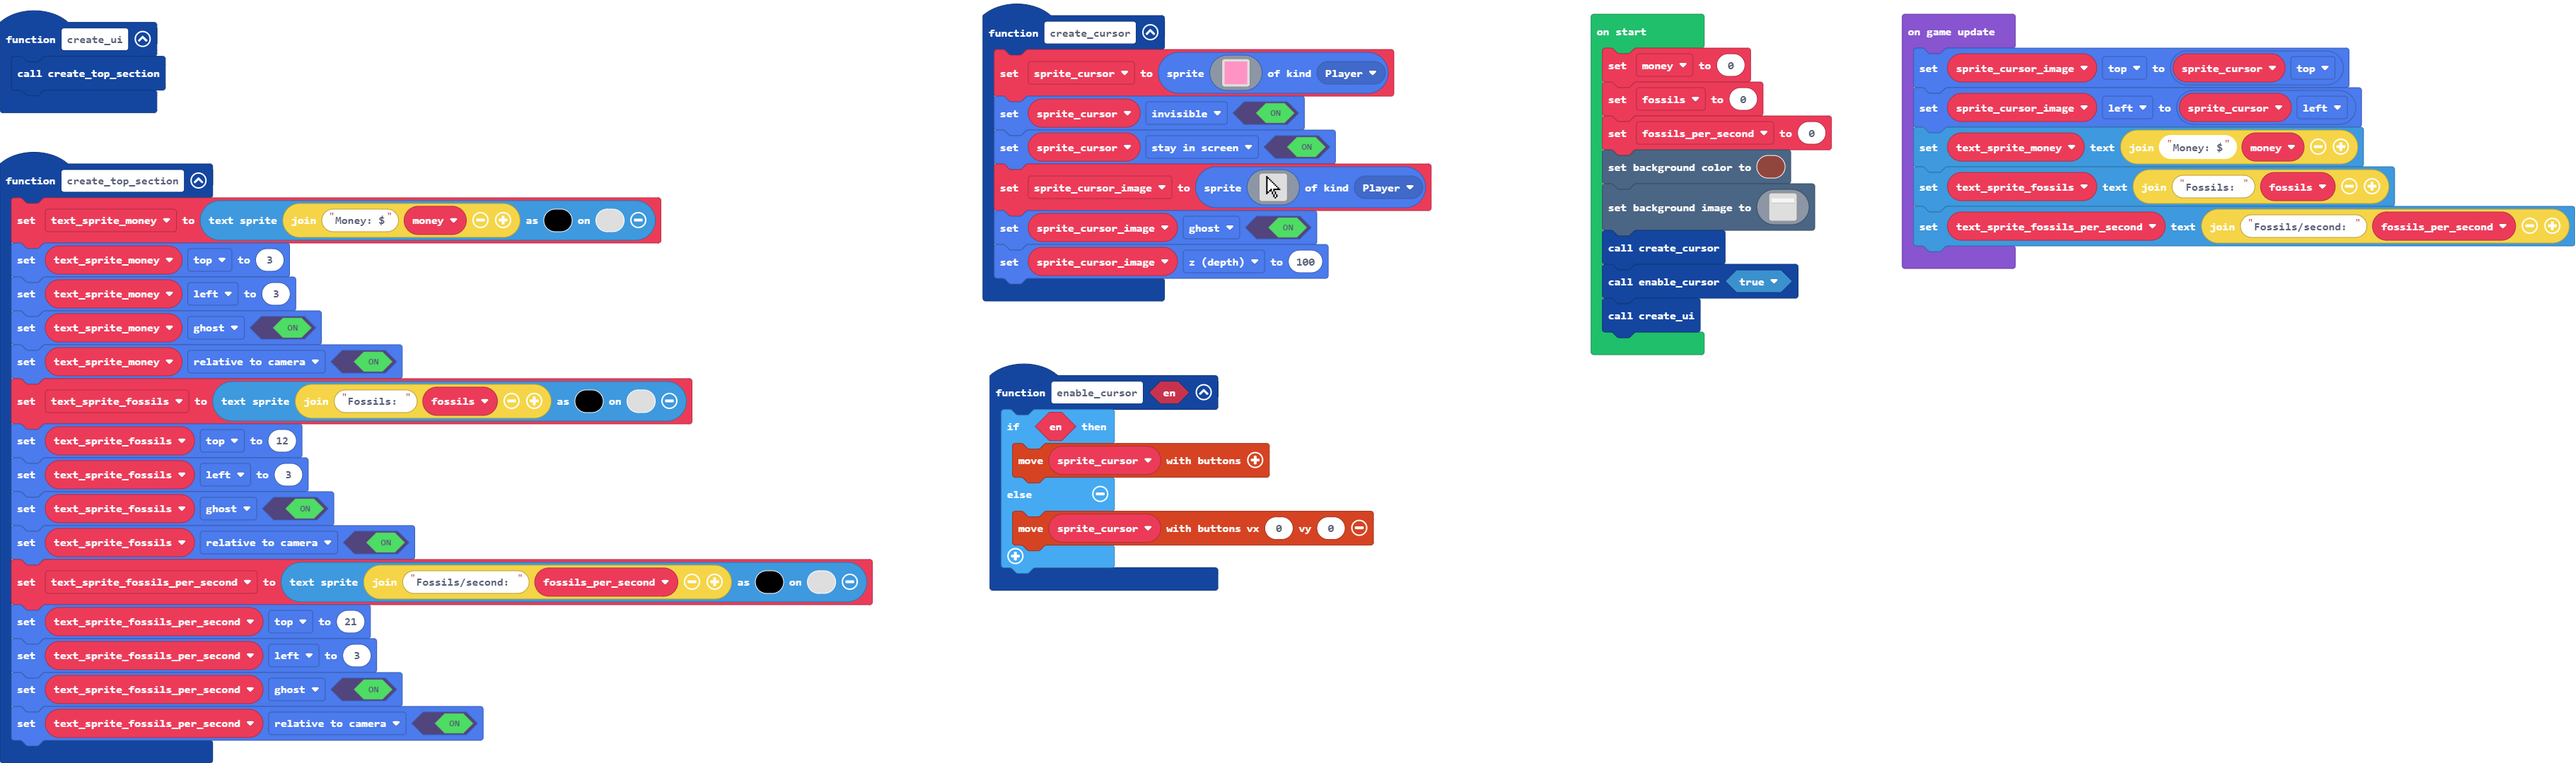
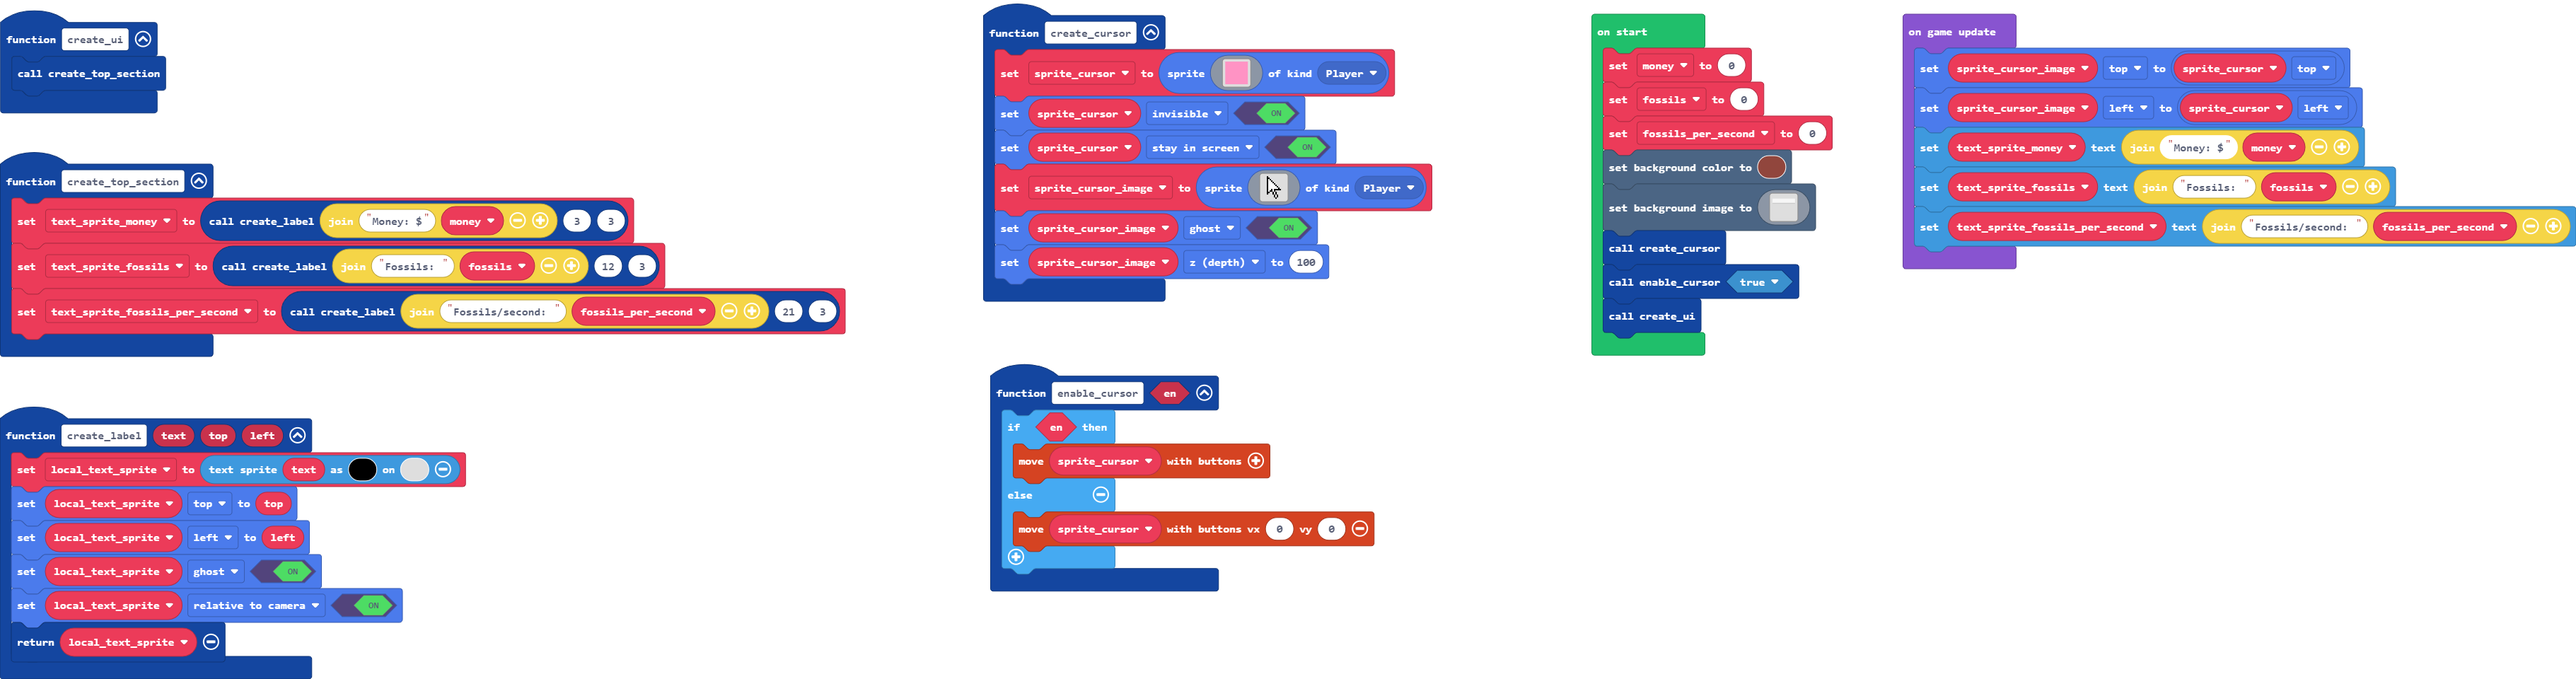
Function to create label

Changed region(s): [[0.0, 0.0, 0.3414, 1.0], [0.3724, 0.0, 0.5586, 0.875], [0.6207, 0.0, 1.0, 0.5312]]

diff --git a/main.ts b/main.ts
@@ -1,22 +1,18 @@
 function create_top_section () {
-    text_sprite_money = textsprite.create("Money: $" + money, 0, 15)
-    text_sprite_money.top = 3
-    text_sprite_money.left = 3
-    text_sprite_money.setFlag(SpriteFlag.Ghost, true)
-    text_sprite_money.setFlag(SpriteFlag.RelativeToCamera, true)
-    text_sprite_fossils = textsprite.create("Fossils: " + fossils, 0, 15)
-    text_sprite_fossils.top = 12
-    text_sprite_fossils.left = 3
-    text_sprite_fossils.setFlag(SpriteFlag.Ghost, true)
-    text_sprite_fossils.setFlag(SpriteFlag.RelativeToCamera, true)
-    text_sprite_fossils_per_second = textsprite.create("Fossils/second: " + fossils_per_second, 0, 15)
-    text_sprite_fossils_per_second.top = 21
-    text_sprite_fossils_per_second.left = 3
-    text_sprite_fossils_per_second.setFlag(SpriteFlag.Ghost, true)
-    text_sprite_fossils_per_second.setFlag(SpriteFlag.RelativeToCamera, true)
+    text_sprite_money = create_label("Money: $" + money, 3, 3)
+    text_sprite_fossils = create_label("Fossils: " + fossils, 12, 3)
+    text_sprite_fossils_per_second = create_label("Fossils/second: " + fossils_per_second, 21, 3)
 }
 function create_ui () {
     create_top_section()
+}
+function create_label (text: string, top: number, left: number) {
+    local_text_sprite = textsprite.create(text, 0, 15)
+    local_text_sprite.top = top
+    local_text_sprite.left = left
+    local_text_sprite.setFlag(SpriteFlag.Ghost, true)
+    local_text_sprite.setFlag(SpriteFlag.RelativeToCamera, true)
+    return local_text_sprite
 }
 function create_cursor () {
     sprite_cursor = sprites.create(assets.image`cursor_pixel`, SpriteKind.Player)
@@ -35,6 +31,7 @@ function enable_cursor (en: boolean) {
 }
 let sprite_cursor_image: Sprite = null
 let sprite_cursor: Sprite = null
+let local_text_sprite: TextSprite = null
 let text_sprite_fossils_per_second: TextSprite = null
 let text_sprite_fossils: TextSprite = null
 let text_sprite_money: TextSprite = null
